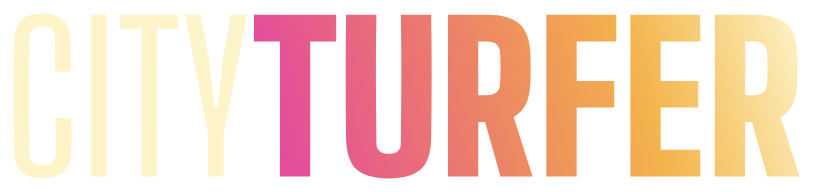
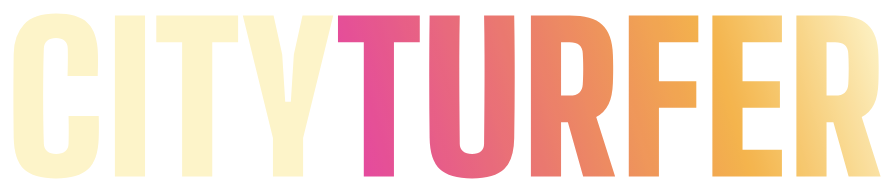
feat(brand): bold wordmark and an italic tagline face
CITY and TURFER are both Big Shoulders Display Black now, told apart by colour. The tagline
(website hero, /branding, social image) is Barlow Semi Condensed Black Italic in sentence case,
web only (TAGLINE_FONT_FAMILY, --font-family-tagline). Logo sizes follow the new 4.7:1 shape.

diff --git a/apps/web/src/app/branding/page.dev.tsx b/apps/web/src/app/branding/page.dev.tsx
@@ -34,7 +34,7 @@ import { setRequestLocale } from 'next-intl/server';
 import type { CSSProperties, ReactNode } from 'react';
 
 import { AppHeader } from '../[locale]/app-header';
-import { bodyFont, displayFont, numericFont } from '../fonts';
+import { bodyFont, displayFont, numericFont, taglineFont } from '../fonts';
 import { WAITLIST } from '../waitlist-config';
 import { BrandNav } from './brand-nav';
 import {
@@ -98,7 +98,7 @@ export default async function BrandingPage() {
   return (
     <html
       lang='en'
-      className={`${displayFont.variable} ${numericFont.variable} ${bodyFont.variable}`}
+      className={`${displayFont.variable} ${numericFont.variable} ${bodyFont.variable} ${taglineFont.variable}`}
       style={cssVariables(SITE_SCHEME) as CSSProperties}
     >
       <head>
@@ -121,7 +121,7 @@ export default async function BrandingPage() {
         <header className='brand-hero'>
           <div className='brand-wrap'>
             <p className='brand-kicker'>{BRANDING_TITLE}</p>
-            <Image src={wordmarkLight} alt={NAME} width={420} height={99} priority className='brand-hero-wordmark' />
+            <Image src={wordmarkLight} alt={NAME} width={420} height={90} priority className='brand-hero-wordmark' />
             <p className='brand-tagline'>{TAGLINES[0]}</p>
             <p className='brand-lede'>{PROMO}</p>
           </div>
@@ -303,9 +303,10 @@ export default async function BrandingPage() {
               <LogoTile src={wordmarkLight} label='Wordmark on light (the website)' file='wordmark-light.svg' wide />
             </div>
             <p className='brand-muted'>
-              The wordmark is outlined Big Shoulders Display in capitals (“CITY” Medium, “TURFER” Black), generated by a
-              script: never edit the SVGs by hand. Keep clear space of at least half a hexagon side around the mark.
-              Don’t recolour the hexagon, rotate the mark, put it on busy photos or add drop shadows.
+              The wordmark is outlined Big Shoulders Display in capitals (“CITY” and “TURFER” both Black, told apart by
+              colour), generated by a script: never edit the SVGs by hand. Keep clear space of at least half a hexagon
+              side around the mark. Don’t recolour the hexagon, rotate the mark, put it on busy photos or add drop
+              shadows.
             </p>
           </Section>
 

diff --git a/apps/web/src/app/branding/branding.css b/apps/web/src/app/branding/branding.css
@@ -10,6 +10,7 @@
 .brand {
   --display: var(--face-display), var(--font-family-display);
   --numeric: var(--face-numeric), var(--font-family-numeric);
+  --tagline: var(--face-tagline, 'BarlowSemiCondensed-BlackItalic'), var(--font-family-tagline);
   --body: var(--face-body, 'Barlow'), var(--font-family-body);
   /* Readable on the light page: faint to accent-text, like the light wordmark (no blazing). */
   --ramp: linear-gradient(45deg, var(--faint), var(--accent-text));
@@ -80,13 +81,12 @@
 }
 
 .brand-tagline {
-  font-family: var(--display);
-  text-transform: var(--display-case);
-  letter-spacing: var(--display-tracking);
+  font-family: var(--tagline);
+  letter-spacing: -0.01em;
   font-weight: normal;
   font-synthesis: none;
-  font-size: clamp(34px, 6.5vw, 52px);
-  line-height: 0.95;
+  font-size: clamp(30px, 5.6vw, 46px);
+  line-height: 1.02;
   margin: var(--space-xxl) 0 var(--space-md);
   background: var(--ramp);
   -webkit-background-clip: text;
@@ -242,12 +242,11 @@
   border-bottom: 1px solid var(--border);
 }
 .brand-tagline-item {
-  font-family: var(--display);
-  text-transform: var(--display-case);
-  letter-spacing: var(--display-tracking);
+  font-family: var(--tagline);
+  letter-spacing: -0.01em;
   font-synthesis: none;
-  font-size: clamp(23px, 3.9vw, 31px);
-  line-height: 1;
+  font-size: clamp(21px, 3.5vw, 28px);
+  line-height: 1.05;
 }
 .brand-rules {
   margin-top: var(--space-xxl);

diff --git a/packages/brand/templates/og-image.html b/packages/brand/templates/og-image.html
@@ -6,6 +6,7 @@
 <style>
   @font-face { font-family: 'BigShouldersDisplay-Black'; src: url({{FONT_DISPLAY}}) format('woff2'); }
   @font-face { font-family: 'Barlow'; src: url({{FONT_BODY}}) format('woff2'); }
+  @font-face { font-family: 'BarlowSemiCondensed-BlackItalic'; src: url({{FONT_TAGLINE}}) format('woff2'); }
   .frame {
     position: relative; overflow: hidden; width: {{W}}px; height: {{H}}px; box-sizing: border-box;
     background: radial-gradient(70% 90% at 85% 40%, #2A1238 0%, #0B0D12 70%);
@@ -13,7 +14,7 @@
   }
   .copy { position: absolute; left: 72px; top: 0; bottom: 0; width: 640px; display: flex; flex-direction: column; justify-content: center; }
   .wordmark { width: 400px; display: block; }
-  .tagline { margin: 40px 0 0; font-family: 'BigShouldersDisplay-Black', sans-serif; font-size: 76px; line-height: 0.92; letter-spacing: 0.5px; text-transform: uppercase; color: #FFF3C4; max-width: 590px; }
+  .tagline { margin: 36px 0 0; font-family: 'BarlowSemiCondensed-BlackItalic', sans-serif; font-size: 66px; line-height: 1.02; letter-spacing: -0.5px; color: #FFF3C4; max-width: 470px; }
   .sub { margin: 24px 0 0; font-size: 26px; line-height: 1.35; color: #9AA3B5; max-width: 560px; }
   .phone {
     position: absolute; right: 70px; top: 70px; width: 330px; border-radius: 44px; overflow: hidden;

diff --git a/apps/web/src/app/globals.css b/apps/web/src/app/globals.css
@@ -19,6 +19,8 @@
      weight is baked into each font, so never bold them (font-synthesis: none). */
   --display: var(--face-display), var(--font-family-display);
   --numeric: var(--face-numeric), var(--font-family-numeric);
+  /* The hero tagline: an italic in sentence case, so it reads apart from the capitals wordmark. */
+  --tagline: var(--face-tagline, 'BarlowSemiCondensed-BlackItalic'), var(--font-family-tagline);
   --body: var(--face-body, 'Barlow'), var(--font-family-body);
 }
 
@@ -212,7 +214,7 @@ img {
     margin-left: 0;
   }
   .hero-copy h1 {
-    font-size: clamp(3.4rem, 5.6vw, 4.6rem);
+    font-size: clamp(3rem, 5vw, 4.2rem);
   }
   .hero-copy .mark {
     width: 104px;
@@ -248,13 +250,13 @@ img {
 }
 
 h1 {
-  font-size: clamp(2.6rem, 11vw, 4.5rem);
-  font-family: var(--display);
+  font-size: clamp(2.4rem, 10vw, 4.1rem);
+  font-family: var(--tagline);
   font-weight: normal;
+  font-style: normal;
   font-synthesis: none;
-  text-transform: var(--display-case);
-  line-height: 1.04;
-  letter-spacing: var(--display-tracking);
+  line-height: 1.02;
+  letter-spacing: -0.01em;
   overflow-wrap: break-word;
   margin: 0 auto 18px;
   max-width: 20ch;

diff --git a/packages/brand/src/__tests__/tokens.test.ts b/packages/brand/src/__tests__/tokens.test.ts
@@ -10,6 +10,7 @@ import {
   RADIUS,
   SITE_SCHEME,
   SPACE,
+  TAGLINE_FONT_FAMILY,
   THEMES,
   TIER_ORDER,
 } from '../tokens';
@@ -133,6 +134,7 @@ describe('cssVariables', () => {
     expect(cssVariables('dark')['--font-family-display']).toMatch(/^'BigShouldersDisplay-Black', -apple-system/);
     expect(cssVariables('dark')['--font-family-numeric']).toMatch(/^'BarlowSemiCondensed-ExtraBold', /);
     expect(cssVariables('dark')['--font-family-body']).toMatch(/^'Barlow', -apple-system/);
+    expect(cssVariables('dark')['--font-family-tagline']).toMatch(/^'BarlowSemiCondensed-BlackItalic', /);
     expect(cssVariables('light')).toMatchObject({ '--display-case': 'uppercase', '--display-tracking': '0.4px' });
   });
 
@@ -202,6 +204,10 @@ describe('brand fonts', () => {
       expect(existsSync(join(fonts, `${name}.ttf`))).toBe(true);
       expect(existsSync(join(fonts, `${name}.woff2`))).toBe(true);
     }
+  });
+
+  it('ships the website tagline face', () => {
+    expect(existsSync(join(fonts, `${TAGLINE_FONT_FAMILY}.woff2`))).toBe(true);
   });
 
   it('ships the four website body weights', () => {

diff --git a/packages/brand/src/tokens.ts b/packages/brand/src/tokens.ts
@@ -56,6 +56,12 @@ export const DISPLAY_TRACKING = 0.4;
  */
 export const BODY_FONT_FAMILY = 'Barlow';
 
+/**
+ * Website tagline face: Barlow Semi Condensed Black Italic, sentence case, for the hero line "Surf
+ * your city. Own your streets." and other taglines (social image, /branding). Web only.
+ */
+export const TAGLINE_FONT_FAMILY = 'BarlowSemiCondensed-BlackItalic';
+
 /** System font stack the website falls back to (and the app uses for body text). */
 export const SYSTEM_FONT_STACK =
   "-apple-system, BlinkMacSystemFont, 'SF Pro Text', 'Segoe UI', Roboto, 'Helvetica Neue', Arial, sans-serif";
@@ -133,6 +139,7 @@ export function cssVariables(scheme: ColorScheme): CssVariables {
     '--font-family-display': `'${FONT_FAMILY.display}', ${SYSTEM_FONT_STACK}`,
     '--font-family-numeric': `'${FONT_FAMILY.numeric}', ${SYSTEM_FONT_STACK}`,
     '--font-family-body': `'${BODY_FONT_FAMILY}', ${SYSTEM_FONT_STACK}`,
+    '--font-family-tagline': `'${TAGLINE_FONT_FAMILY}', ${SYSTEM_FONT_STACK}`,
     '--display-case': DISPLAY_CASE,
     '--display-tracking': `${DISPLAY_TRACKING}px`,
   };

diff --git a/apps/storybook/src/stories/foundations/typography.stories.tsx b/apps/storybook/src/stories/foundations/typography.stories.tsx
@@ -73,7 +73,7 @@ const meta = {
     docs: {
       description: {
         component:
-          '"Street Plate": Big Shoulders Display Black for screen titles, always in capitals (`DISPLAY_CASE`, `DISPLAY_TRACKING`), and Barlow Semi Condensed ExtraBold for big numbers with tabular figures. Both OFL, static fonts with the weight baked in, so never combine them with `fontWeight`. In the app body text and labels stay on the system font; the website sets them in Barlow. The wordmark is the display face too, outlined: CITY Medium + TURFER Black.',
+          '"Street Plate": Big Shoulders Display Black for screen titles, always in capitals (`DISPLAY_CASE`, `DISPLAY_TRACKING`), and Barlow Semi Condensed ExtraBold for big numbers with tabular figures. Both OFL, static fonts with the weight baked in, so never combine them with `fontWeight`. In the app body text and labels stay on the system font; the website sets them in Barlow. The wordmark is the display face too, outlined: CITY + TURFER, both Black.',
       },
     },
   },

diff --git a/apps/web/src/app/[locale]/layout.tsx b/apps/web/src/app/[locale]/layout.tsx
@@ -10,7 +10,7 @@ import type { CSSProperties, ReactNode } from 'react';
 
 import { routing } from '@/i18n/routing';
 
-import { bodyFont, displayFont, numericFont } from '../fonts';
+import { bodyFont, displayFont, numericFont, taglineFont } from '../fonts';
 import { SITE_URL } from '../site-url';
 import { MOTION_BOOT_SCRIPT } from './hero-motion';
 import { OG_IMAGE_HEIGHT, OG_IMAGE_PATH, OG_IMAGE_WIDTH } from './layout.constants';
@@ -79,7 +79,7 @@ export default async function LocaleLayout({
     // suppressHydrationWarning: the motion boot script adds a class to <html> before React hydrates.
     <html
       lang={locale}
-      className={`${displayFont.variable} ${numericFont.variable} ${bodyFont.variable}`}
+      className={`${displayFont.variable} ${numericFont.variable} ${bodyFont.variable} ${taglineFont.variable}`}
       style={tokens}
       suppressHydrationWarning
     >

diff --git a/apps/mobile/src/app/sign-in.tsx b/apps/mobile/src/app/sign-in.tsx
@@ -258,8 +258,8 @@ export default function SignIn() {
 const s = StyleSheet.create({
   root: { flex: 1, backgroundColor: DARK.bg },
   inner: { flex: 1, justifyContent: 'center', padding: 24, gap: 14 },
-  // Outlined wordmark for dark backgrounds (packages/brand/svg/wordmark.svg, rendered to 813 × 192).
-  logo: { width: '100%', maxWidth: 220, height: undefined, aspectRatio: 813 / 192, alignSelf: 'center' },
+  // Outlined wordmark for dark backgrounds (packages/brand/svg/wordmark.svg, rendered to 894 × 192).
+  logo: { width: '100%', maxWidth: 230, height: undefined, aspectRatio: 894 / 192, alignSelf: 'center' },
   tag: { color: DARK.muted, textAlign: 'center', marginBottom: 24 },
   input: {
     backgroundColor: DARK.card,

diff --git a/apps/web/src/app/fonts.ts b/apps/web/src/app/fonts.ts
@@ -34,3 +34,12 @@ export const bodyFont = localFont({
   preload: true,
   fallback: ['-apple-system', 'BlinkMacSystemFont', 'Roboto', 'Arial', 'sans-serif'],
 });
+
+/** The hero tagline: Barlow Semi Condensed Black Italic, sentence case (TAGLINE_FONT_FAMILY). */
+export const taglineFont = localFont({
+  src: '../../../../packages/brand/fonts/BarlowSemiCondensed-BlackItalic.woff2',
+  variable: '--face-tagline',
+  display: 'swap',
+  preload: true,
+  fallback: ['-apple-system', 'BlinkMacSystemFont', 'Roboto', 'Arial', 'sans-serif'],
+});

diff --git a/apps/web/src/app/[locale]/app-header/app-header.tsx b/apps/web/src/app/[locale]/app-header/app-header.tsx
@@ -22,7 +22,7 @@ export function AppHeader({ locale, waitlist, waitlistHref = '#waitlist', lockup
       logo={
         <>
           <Image className='app-header-mark' src={mark} alt='' width={32} height={32} />
-          <Image className='app-header-wordmark' src={wordmark} alt='' width={85} height={20} />
+          <Image className='app-header-wordmark' src={wordmark} alt='' width={93} height={20} />
         </>
       }
       waitlist={waitlist ? { href: waitlistHref, label: t('waitlist'), shortLabel: t('waitlistShort') } : null}

diff --git a/apps/web/src/app/[locale]/hero-copy/hero-copy.tsx b/apps/web/src/app/[locale]/hero-copy/hero-copy.tsx
@@ -10,7 +10,7 @@ export function HeroCopy() {
   return (
     <div className='hero-copy'>
       <Image className='mark' data-anim='mark' src={mark} alt='' priority width={132} height={132} />
-      <Image className='wordmark' data-anim='wordmark' src={wordmark} alt={NAME} priority width={320} height={76} />
+      <Image className='wordmark' data-anim='wordmark' src={wordmark} alt={NAME} priority width={320} height={69} />
       <h1>
         <span className='line' data-anim='line'>
           {t('taglineLead')}
